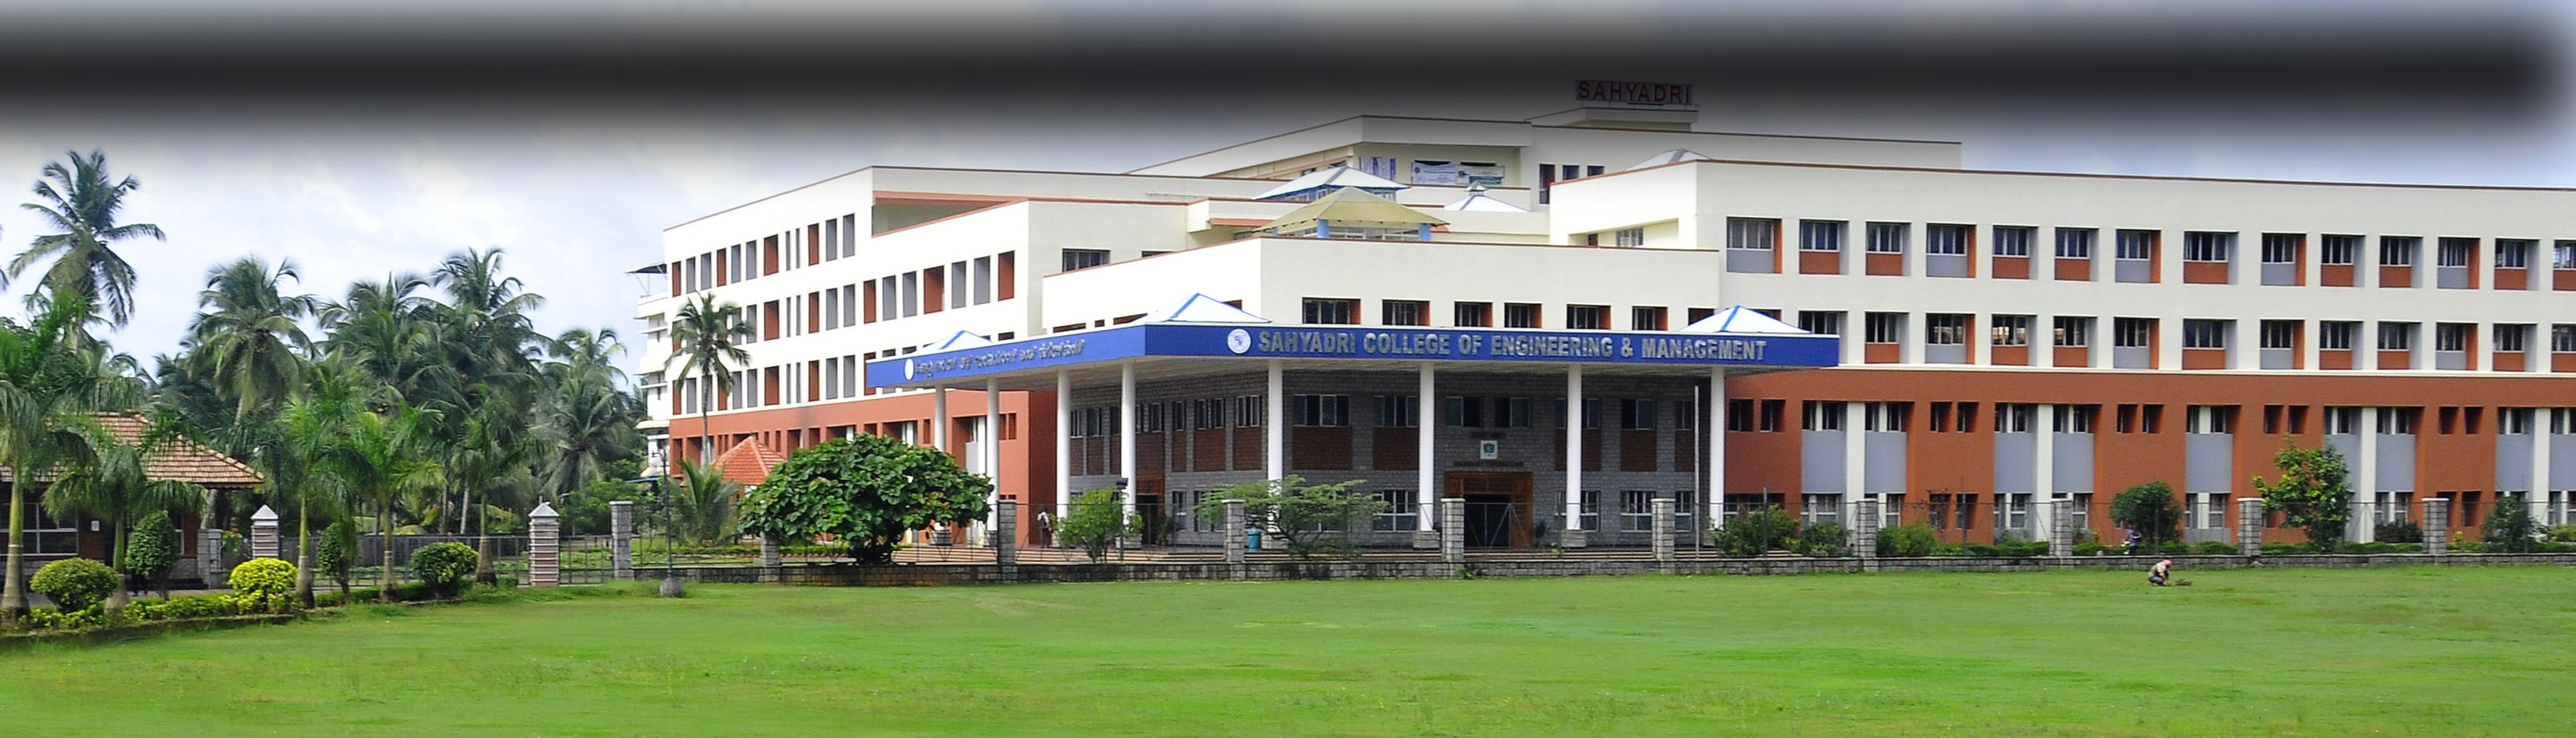
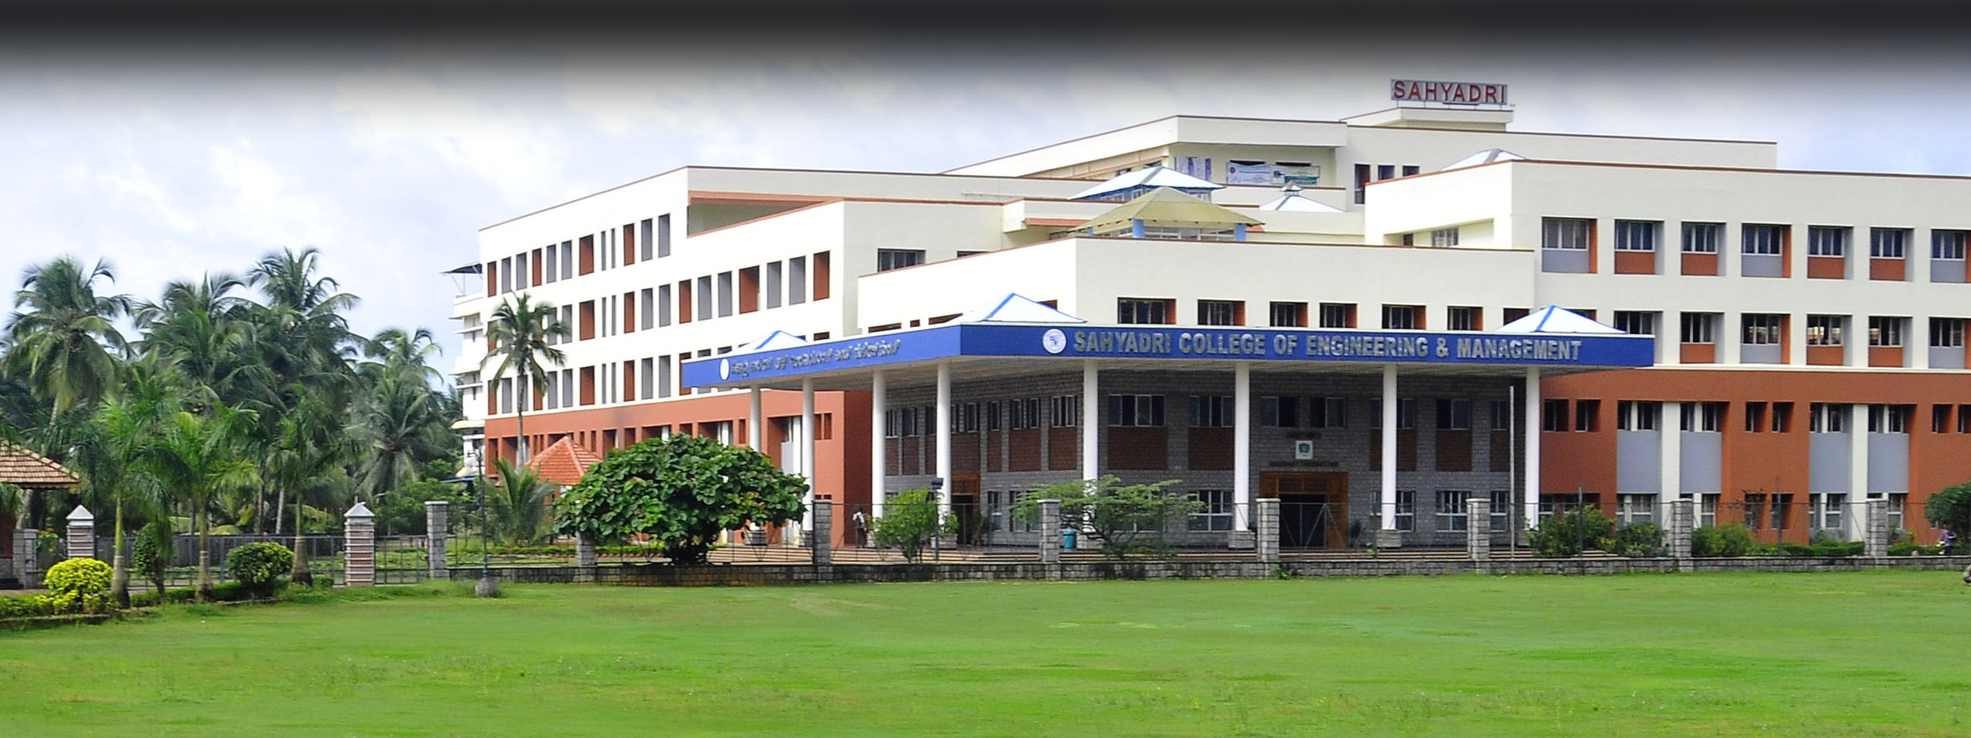
color changes

diff --git a/css/styles.css b/css/styles.css
@@ -2,7 +2,7 @@
   position: absolute;
   z-index: 0;
   width: 100%;
-  height: 300px;
+  height: 400px;
     background: #10b8f7;
     background: -webkit-linear-gradient(-45deg,#0fb8f6, #05dcfc); /* For Safari 5.1 to 6.0 */
     background: -o-linear-gradient(-45deg,#0fb8f6, #05dcfc); /* For Opera 11.1 to 12.0 */
@@ -11,9 +11,9 @@
 }
 .hero img{
   width: 100%;
-  height: 300px;
+  height: 400px;
   object-fit: cover;
-  opacity: 0.15;
+  opacity: 0.3;
     filter: alpha(opacity=15); /* For IE8 and earlier */
 }
 .hero-text{
@@ -24,7 +24,7 @@
 }
 .main-card {
   position: absolute;
-  height: 300px;
+  height: 400px;
   margin-top: 100px;
 }
 
@@ -38,10 +38,11 @@
 
 .cards {
   background: #fff;
-  border-radius: 2px;
+  border-radius: 3px;
   display: inline-block;
-  height: 300px;
-  margin-top: 12rem;
+  height: 400px;
+  margin-top: 15rem;
+  margin-bottom: 1.2rem;
   position: relative;
   width: 100%;
 }
@@ -80,7 +81,7 @@
 .cardtitle{
   padding-left: 20px;
   padding-bottom: 0px;
-  font-size: 20px;
+  font-size: 15px;
   color: #a9abac;
 }
 hr{

diff --git a/css/materialize.css b/css/materialize.css
@@ -758,10 +758,7 @@
 .light-blue {
   /*background-color: #03a9f4 !important;*/
   background: #10b8f7;
-  background: -webkit-linear-gradient(45deg,#0fb8f6, #05dcfc); /* For Safari 5.1 to 6.0 */
-  background: -o-linear-gradient(45deg,#0fb8f6, #05dcfc); /* For Opera 11.1 to 12.0 */
-  background: -moz-linear-gradient(45deg,#0fb8f6, #05dcfc); /* For Firefox 3.6 to 15 */
-  background: linear-gradient(45deg,#0fb8f6, #05dcfc); /* Standard syntax */
+  
 }
 
 .light-blue-text {
